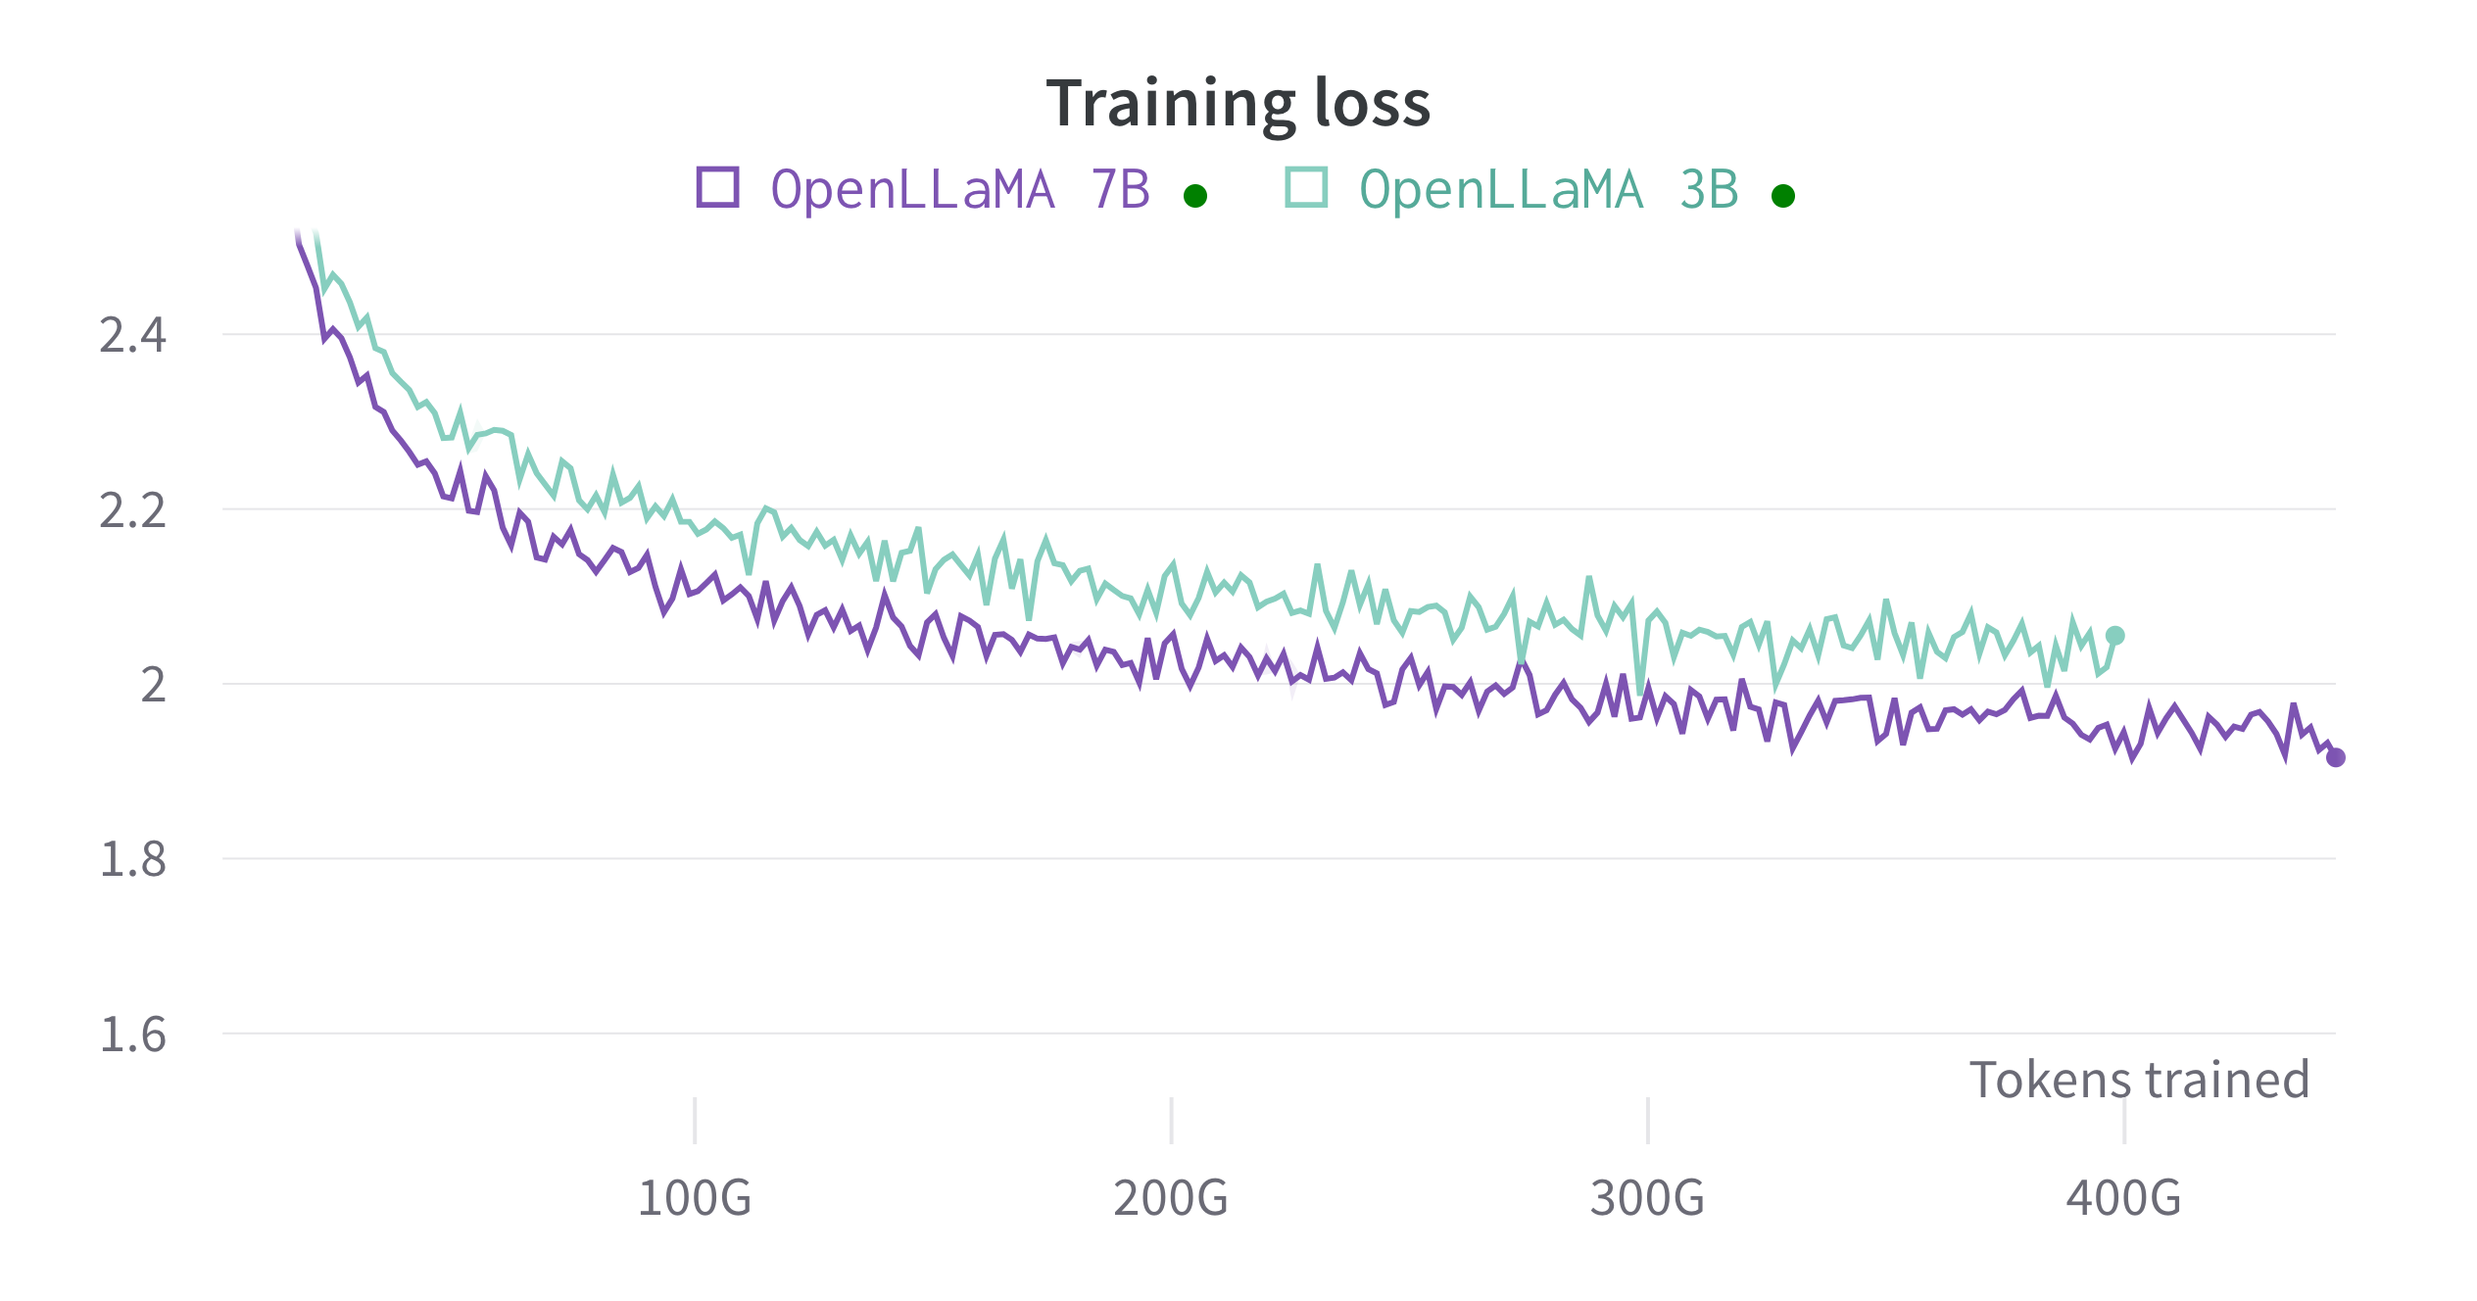
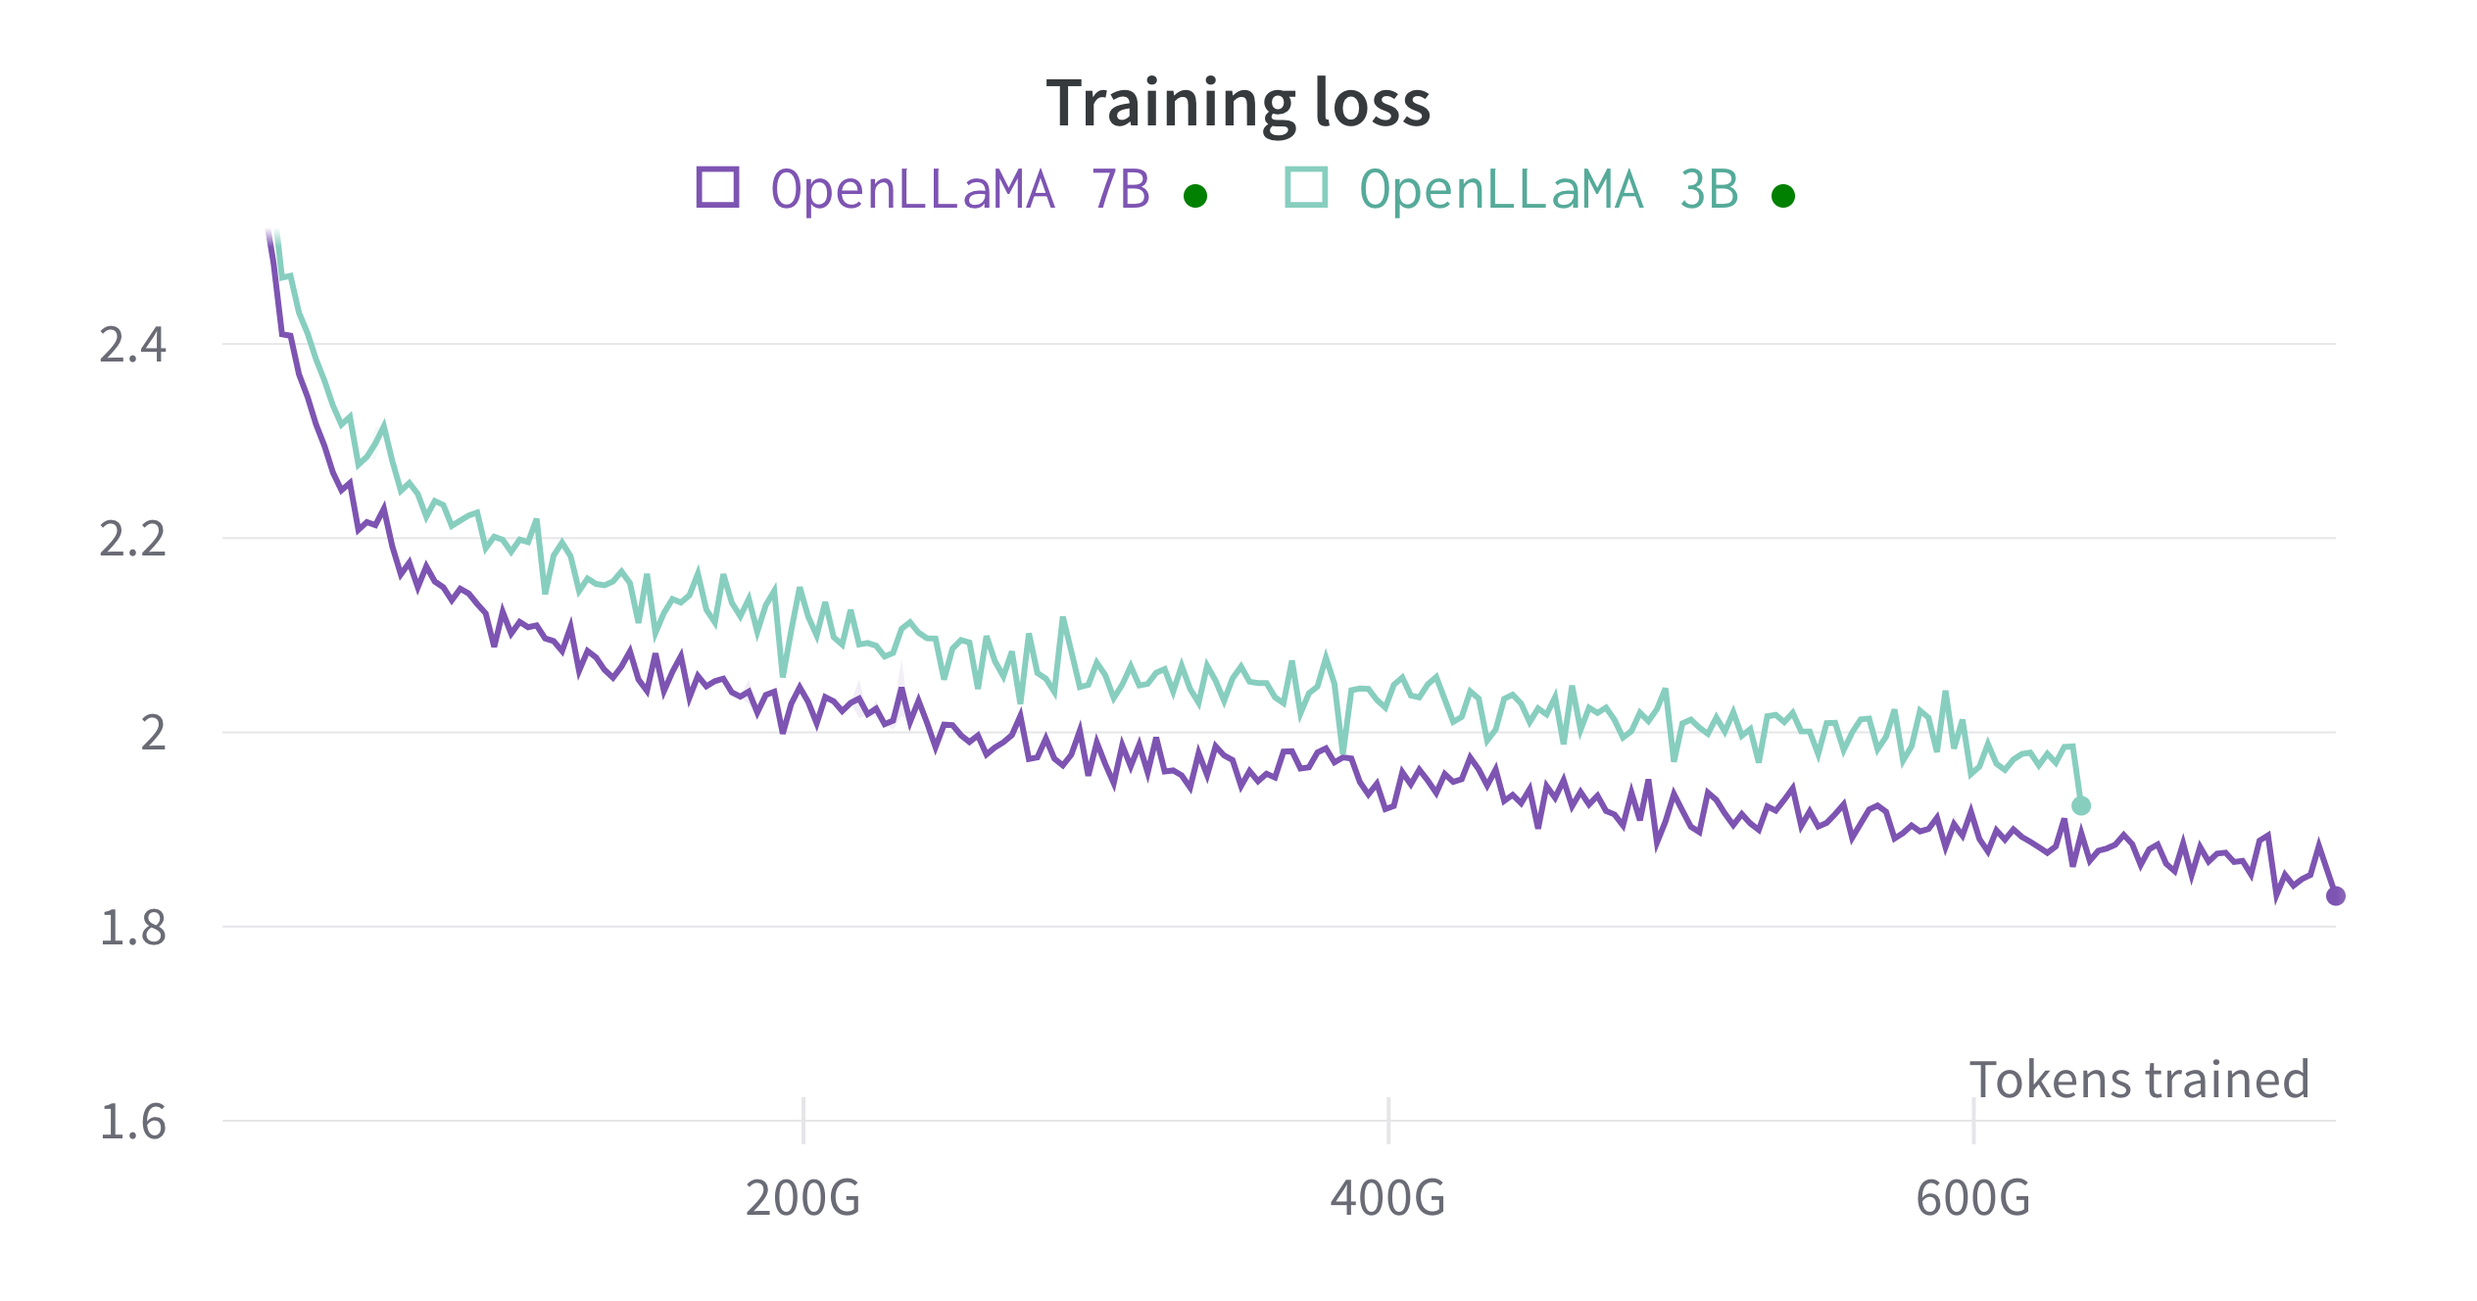
700BT release

diff --git a/README.md b/README.md
@@ -1,15 +1,21 @@
 # OpenLLaMA: An Open Reproduction of LLaMA
 
-**TL;DR**: we are releasing our public preview of OpenLLaMA, a permissively licensed open source reproduction of Meta AI’s LLaMA 7B trained on the RedPajama dataset. Our model weights can serve as the drop in replacement of LLaMA 7B in existing implementations. Other than the 7B model, we are also releasing a smaller 3B variant of LLaMA for resource constrained use cases.
+**TL;DR**: we are releasing our public preview of OpenLLaMA, a permissively licensed open source reproduction of Meta AI’s LLaMA 7B trained on the RedPajama dataset. Our model weights can serve as the drop in replacement of LLaMA 7B in existing implementations. We also provide a smaller 3B variant of LLaMA model.
 
 
-In this repo, we release a permissively licensed open source reproduction of Meta AI's [LLaMA](https://ai.facebook.com/blog/large-language-model-llama-meta-ai/) large language model. In this release, we're releasing a public preview of the 7B and 3B OpenLLaMA model that has been trained with 400 billion tokens. We provide PyTorch and Jax weights of pre-trained OpenLLaMA models, as well as evaluation results and comparison against the original LLaMA models. Stay tuned for our updates.
+In this repo, we release a permissively licensed open source reproduction of Meta AI's [LLaMA](https://ai.facebook.com/blog/large-language-model-llama-meta-ai/) large language model. In this release, we're releasing a public preview of the 7B and 3B OpenLLaMA model that has been trained with 700 billion tokens. We provide PyTorch and JAX weights of pre-trained OpenLLaMA models, as well as evaluation results and comparison against the original LLaMA models. Stay tuned for our updates.
 
 
-- [PyTorch weights for OpenLLaMA 7B 400B tokens preview](https://huggingface.co/openlm-research/open_llama_7b_400bt_preview)
-- [PyTorch weights for OpenLLaMA 3B 350B tokens preview](https://huggingface.co/openlm-research/open_llama_3b_350bt_preview)
-- [EasyLM JAX weights for OpenLLaMA 7B 400B tokens preview](https://huggingface.co/openlm-research/open_llama_7b_400bt_preview_easylm)
-- [EasyLM JAX weights for OpenLLaMA 3B 350B tokens preview](https://huggingface.co/openlm-research/open_llama_3b_350bt_preview_easylm)
+- [PyTorch weights for OpenLLaMA 7B 700B tokens preview](https://huggingface.co/openlm-research/open_llama_7b_700bt_preview)
+- [PyTorch weights for OpenLLaMA 3B 600B tokens preview](https://huggingface.co/openlm-research/open_llama_3b_600bt_preview)
+- [EasyLM JAX weights for OpenLLaMA 7B 700B tokens preview](https://huggingface.co/openlm-research/open_llama_7b_700bt_preview_easylm)
+- [EasyLM JAX weights for OpenLLaMA 3B 600B tokens preview](https://huggingface.co/openlm-research/open_llama_3b_600bt_preview_easylm)
+
+
+
+## Update 05/22/2023
+
+We are happy to release our 700B token checkpoint for the OpenLLaMA 7B model and 600B token checkpoint for the 3B model. We’ve also updated the evaluation results. We expect the full 1T token training run to finish at the end of this week.
 
 
 ## Update 05/15/2023
@@ -20,17 +26,17 @@ After receiving feedback from the community, we discovered that the tokenizer of
 
 ## Preview Weights Release and Usage
 
-To encourage the feedback from the community, we release a preview checkpoint of our weights. We release the weights in two formats: an EasyLM format to be use with our [EasyLM framework](https://github.com/young-geng/EasyLM), and a PyTorch format to be used with the [Huggingface transformers](https://huggingface.co/docs/transformers/index) library. Both our training framework EasyLM and the preview checkpoint weights are licensed permissively under the Apache 2.0 license.
+To encourage the feedback from the community, we release a preview checkpoint of our weights. We release the weights in two formats: an EasyLM format to be use with our [EasyLM framework](https://github.com/young-geng/EasyLM), and a PyTorch format to be used with the [Hugging Face transformers](https://huggingface.co/docs/transformers/index) library.
 
-### Loading the Weights with Huggingface Transformers
-These preview checkpoints can be directly loaded from Huggingface Hub. See the following example for usage:
+### Loading the Weights with Hugging Face Transformers
+Preview checkpoints can be directly loaded from Hugging Face Hub. See the following example for usage:
 
 ```python
 import torch
 from transformers import LlamaTokenizer, LlamaForCausalLM
 
-# model_path = 'openlm-research/open_llama_3b_350bt_preview'
-model_path = 'openlm-research/open_llama_7b_400bt_preview'
+model_path = 'openlm-research/open_llama_3b_600bt_preview'
+# model_path = 'openlm-research/open_llama_7b_700bt_preview'
 
 tokenizer = LlamaTokenizer.from_pretrained(model_path)
 model = LlamaForCausalLM.from_pretrained(
@@ -48,20 +54,21 @@ print(tokenizer.decode(generation_output[0]))
 
 For more advanced usage, please follow the [transformers LLaMA documentation](https://huggingface.co/docs/transformers/main/model_doc/llama).
 
-### Loading the Weights with EasyLM
+**Loading the Weights with EasyLM**
 
-For using the weights in our EasyLM framework, please refer to the [LLaMA documentation of EasyLM](https://github.com/young-geng/EasyLM/blob/main/docs/llama.md). Note that unlike the original LLaMA model, our OpenLLaMA tokenizer and weights are trained completely from scratch so it is no longer needed to obtain the original LLaMA tokenizer and weights. Note that we use BOS (beginning of sentence) token (id=1) during training, so it is important to prepend this token for best performance during few-shot evaluation.
+For using the weights in our EasyLM framework, please refer to the [LLaMA documentation of EasyLM](https://github.com/young-geng/EasyLM/blob/main/docs/llama.md). Note that unlike the original LLaMA model, our OpenLLaMA tokenizer and weights are trained completely from scratch so it is no longer needed to obtain the original LLaMA tokenizer and weights. Note that we use BOS (beginning of sentence) token (id=1) during training, so it is best to prepend this token for best performance during few-shot evaluation.
+
+Both our training framework EasyLM and the checkpoint weights are licensed permissively under the Apache 2.0 license.
+
 
 
 ## Dataset and Training
 
 We train our models on the [RedPajama](https://www.together.xyz/blog/redpajama) dataset released by [Together](https://www.together.xyz/), which is a reproduction of the LLaMA training dataset containing over 1.2 trillion tokens. We follow the exactly same preprocessing steps and training hyperparameters as the original LLaMA paper, including model architecture, context length, training steps, learning rate schedule, and optimizer.  The only difference between our setting and the original one is the dataset used: OpenLLaMA employs the RedPajama dataset rather than the one utilized by the original LLaMA.
 
-We train the models on cloud TPU-v4s using [EasyLM](https://github.com/young-geng/EasyLM), a JAX based training pipeline we developed for training and fine-tuning language model. We employ a combination of normal data parallelism and [fully sharded data parallelism (also know as ZeRO stage 3)](https://engineering.fb.com/2021/07/15/open-source/fsdp/) to balance the training throughput and memory usage. Overall we reach a throughput of over 2100 tokens / second / TPU-v4 chip in our training run. The training loss can be seen in the figure below.
+We train the models on cloud TPU-v4s using [EasyLM](https://github.com/young-geng/EasyLM), a JAX based training pipeline we developed for training and fine-tuning large language models. We employ a combination of normal data parallelism and [fully sharded data parallelism (also know as ZeRO stage 3)](https://engineering.fb.com/2021/07/15/open-source/fsdp/) to balance the training throughput and memory usage. Overall we reach a throughput of over 2100 tokens / second / TPU-v4 chip for our 7B model. The training loss can be seen in the figure below.
 
 ![](media/loss.png)
-
-
 
 ## Evaluation
 
@@ -70,33 +77,33 @@ We evaluated OpenLLaMA on a wide range of tasks using [lm-evaluation-harness](ht
 The original LLaMA model was trained for 1 trillion tokens and GPT-J was trained for 500 billion tokens, whereas OpenLLaMA was trained on 400 billion tokens.  We present the results in the table below. OpenLLaMA exhibits comparable performance to the original LLaMA and GPT-J across a majority of tasks, and outperforms them in some tasks. We expect that the performance of OpenLLaMA, after completing its training on 1 trillion tokens, will be enhanced even further.
 
 
-| **Task/Metric**        | **GPT-J 6B** | **LLaMA 7B** | OpenLLaMA 7B 400B Tokens | OpenLLaMA 3B 350B Tokens |
-| ---------------------- | ------------ | ------------ | ------------------------ | ------------------------ |
-| anli_r1/acc            | 0.32         | 0.35         | 0.33                     | 0.34                     |
-| anli_r2/acc            | 0.34         | 0.34         | 0.33                     | 0.34                     |
-| anli_r3/acc            | 0.35         | 0.37         | 0.34                     | 0.37                     |
-| arc_challenge/acc      | 0.34         | 0.39         | 0.34                     | 0.31                     |
-| arc_challenge/acc_norm | 0.37         | 0.41         | 0.34                     | 0.33                     |
-| arc_easy/acc           | 0.67         | 0.68         | 0.68                     | 0.65                     |
-| arc_easy/acc_norm      | 0.62         | 0.52         | 0.64                     | 0.59                     |
-| boolq/acc              | 0.66         | 0.75         | 0.67                     | 0.60                     |
-| cb/acc                 | 0.36         | 0.36         | 0.43                     | 0.11                     |
-| cb/f1                  | 0.26         | 0.24         | 0.22                     | 0.10                     |
-| hellaswag/acc          | 0.50         | 0.56         | 0.49                     | 0.45                     |
-| hellaswag/acc_norm     | 0.66         | 0.73         | 0.67                     | 0.61                     |
-| openbookqa/acc         | 0.29         | 0.29         | 0.28                     | 0.26                     |
-| openbookqa/acc_norm    | 0.38         | 0.41         | 0.39                     | 0.37                     |
-| piqa/acc               | 0.75         | 0.78         | 0.74                     | 0.72                     |
-| piqa/acc_norm          | 0.76         | 0.78         | 0.74                     | 0.73                     |
-| record/em              | 0.88         | 0.91         | 0.88                     | 0.86                     |
-| record/f1              | 0.89         | 0.91         | 0.88                     | 0.87                     |
-| rte/acc                | 0.54         | 0.56         | 0.61                     | 0.56                     |
-| truthfulqa_mc/mc1      | 0.20         | 0.21         | 0.22                     | 0.23                     |
-| truthfulqa_mc/mc2      | 0.36         | 0.34         | 0.36                     | 0.35                     |
-| wic/acc                | 0.50         | 0.50         | 0.5                      | 0.50                     |
-| winogrande/acc         | 0.64         | 0.68         | 0.66                     | 0.61                     |
-| wsc/acc                | 0.37         | 0.35         | 0.4                      | 0.39                     |
-| Average                | 0.50         | 0.52         | 0.51                     | 0.47                     |
+| **Task/Metric**        | GPT-J 6B | LLaMA 7B | OpenLLaMA 7B 400BT | OpenLLaMA 7B 700BT | OpenLLaMA 3B 350BT | OpenLLaMA 3B 600BT |
+| ---------------------- | -------- | -------- | ------------------ | ------------------ | ------------------ | ------------------ |
+| anli_r1/acc            | 0.32     | 0.35     | 0.33               | 0.35               | 0.34               | 0.31               |
+| anli_r2/acc            | 0.34     | 0.34     | 0.33               | 0.35               | 0.34               | 0.32               |
+| anli_r3/acc            | 0.35     | 0.37     | 0.34               | 0.37               | 0.37               | 0.35               |
+| arc_challenge/acc      | 0.34     | 0.39     | 0.34               | 0.36               | 0.31               | 0.33               |
+| arc_challenge/acc_norm | 0.37     | 0.41     | 0.34               | 0.38               | 0.33               | 0.37               |
+| arc_easy/acc           | 0.67     | 0.68     | 0.68               | 0.72               | 0.65               | 0.68               |
+| arc_easy/acc_norm      | 0.62     | 0.52     | 0.64               | 0.66               | 0.59               | 0.63               |
+| boolq/acc              | 0.66     | 0.75     | 0.67               | 0.70               | 0.60               | 0.66               |
+| cb/acc                 | 0.36     | 0.36     | 0.43               | 0.38               | 0.11               | 0.32               |
+| cb/f1                  | 0.26     | 0.24     | 0.22               | 0.37               | 0.10               | 0.19               |
+| hellaswag/acc          | 0.50     | 0.56     | 0.49               | 0.52               | 0.45               | 0.48               |
+| hellaswag/acc_norm     | 0.66     | 0.73     | 0.67               | 0.70               | 0.61               | 0.65               |
+| openbookqa/acc         | 0.29     | 0.29     | 0.28               | 0.30               | 0.26               | 0.25               |
+| openbookqa/acc_norm    | 0.38     | 0.41     | 0.39               | 0.42               | 0.37               | 0.37               |
+| piqa/acc               | 0.75     | 0.78     | 0.74               | 0.75               | 0.72               | 0.74               |
+| piqa/acc_norm          | 0.76     | 0.78     | 0.74               | 0.76               | 0.73               | 0.74               |
+| record/em              | 0.88     | 0.91     | 0.88               | 0.89               | 0.86               | 0.87               |
+| record/f1              | 0.89     | 0.91     | 0.88               | 0.90               | 0.87               | 0.88               |
+| rte/acc                | 0.54     | 0.56     | 0.61               | 0.62               | 0.56               | 0.58               |
+| truthfulqa_mc/mc1      | 0.20     | 0.21     | 0.22               | 0.24               | 0.23               | 0.22               |
+| truthfulqa_mc/mc2      | 0.36     | 0.34     | 0.36               | 0.37               | 0.35               | 0.32               |
+| wic/acc                | 0.50     | 0.50     | 0.5                | 0.49               | 0.50               | 0.50               |
+| winogrande/acc         | 0.64     | 0.68     | 0.66               | 0.66               | 0.61               | 0.61               |
+| wsc/acc                | 0.37     | 0.35     | 0.4                | 0.45               | 0.39               | 0.38               |
+| Average                | 0.50     | 0.52     | 0.51               | 0.53               | 0.47               | 0.49               |
 
 
 
